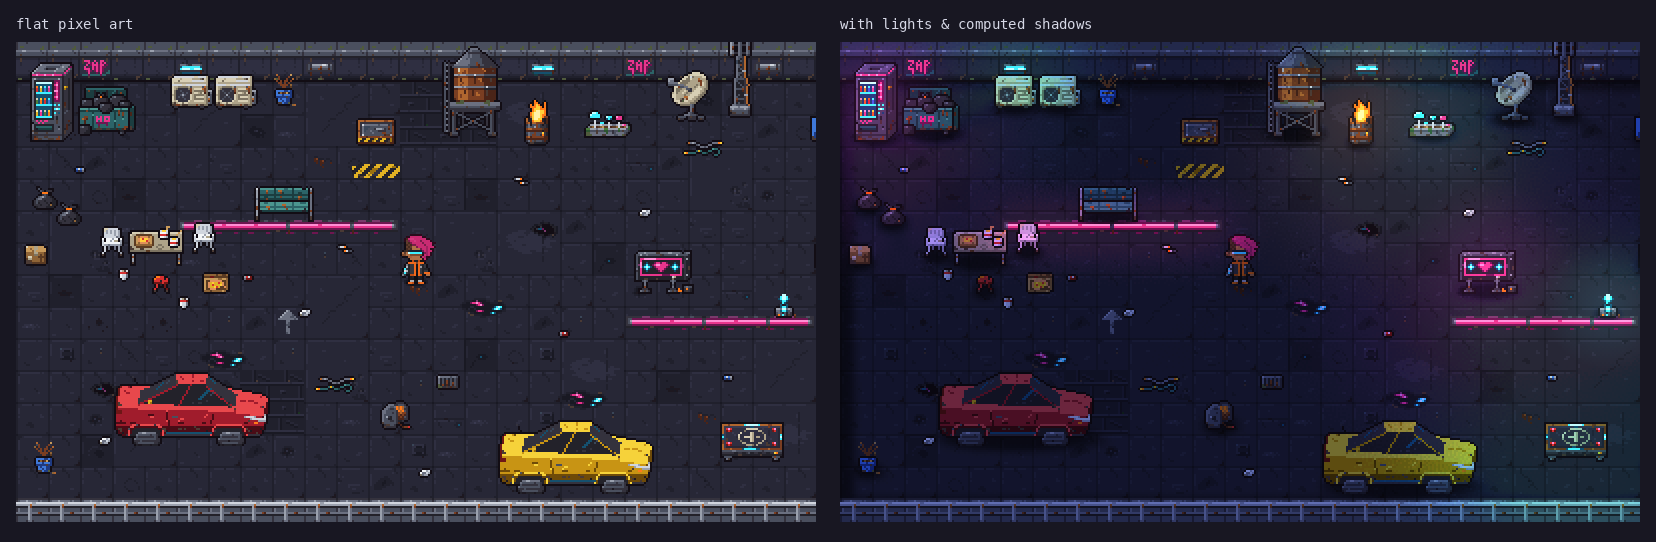
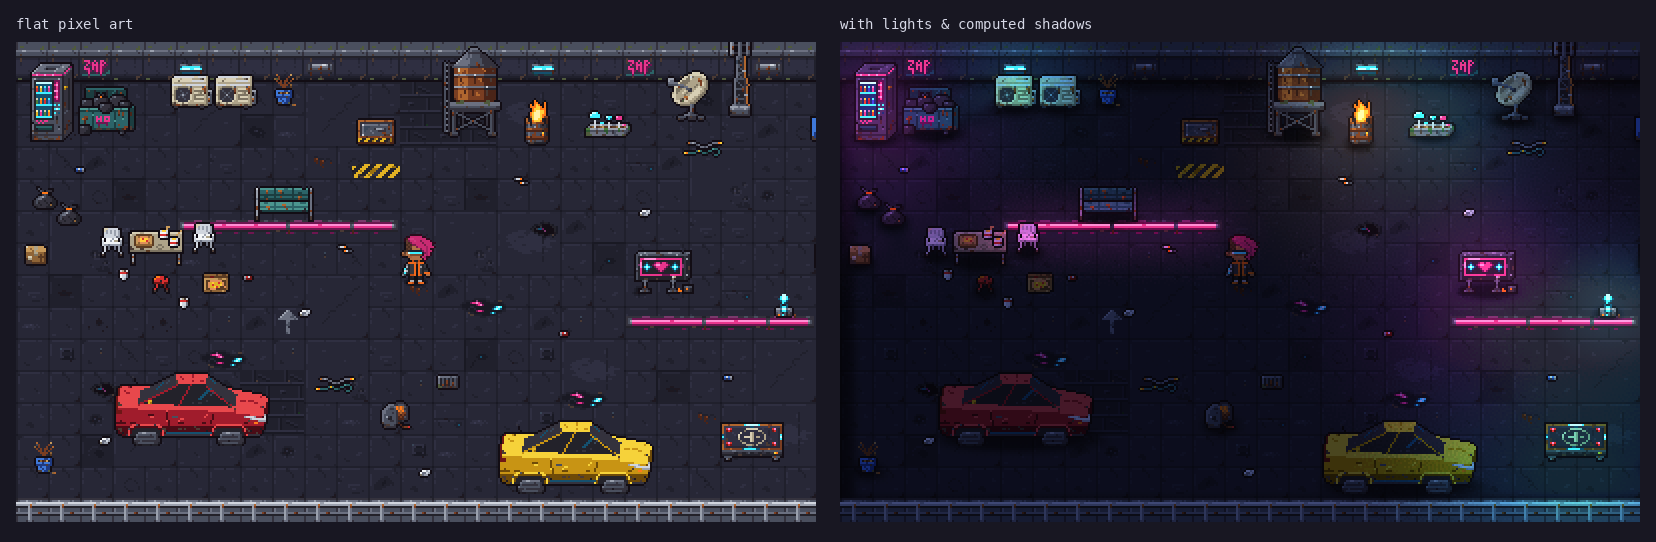
feat(demo): start at 40% night darkness
The demo now starts at 40% darkness (LIGHTING.darkness), and the
README media, including the header loop, are captured at that level.
The -/+ keys still go from 0% to 100%.

Claude-Session: https://claude.ai/code/session_01Fv8yoVpx8AM9QtDidGMBtM

diff --git a/web/engine.js b/web/engine.js
@@ -503,7 +503,7 @@ function draw(fixedT) {
   }
 }
 
-// Scene darkness (keys - and +, 0-100%): dims the ambient light, the moon and the light
+// Scene darkness (keys - and +, 0-100%, default LIGHTING.darkness): dims the ambient light, the moon and the light
 // on flying cars; neon, fire, lamps and headlights keep their strength, so at 100% the roof
 // is dark except for pools of light. The moon is baked, so a change re-bakes (~0.1 s).
 const LIGHT_BASE = { ambient: LIGHTING.ambient, moon: LIGHTING.moon.color, car: LIGHTING.carLight };
@@ -511,16 +511,18 @@ const DARKEST = 0.12;  // share of ambient/moon light left at 100% darkness
 let darkness = 0, rebake = 0;
 const dimHex = (hex, k) => "#" + [1, 3, 5].map(i => Math.round(parseInt(hex.slice(i, i + 2), 16) * k)
   .toString(16).padStart(2, "0")).join("");
-function setDarkness(v) {
+function setDarkness(v, rebakeLights = true) {
   darkness = Math.round(Math.max(0, Math.min(1, v)) * 10) / 10;
   const k = 1 - (1 - DARKEST) * darkness;
   LIGHTING.ambient = dimHex(LIGHT_BASE.ambient, k);
   LIGHTING.moon.color = dimHex(LIGHT_BASE.moon, k);
   LIGHTING.carLight = dimHex(LIGHT_BASE.car, Math.max(0.3, k));
   carSprites.clear();
+  if (!rebakeLights) return;
   clearTimeout(rebake);
   rebake = setTimeout(buildLighting, 60);
 }
+setDarkness(LIGHTING.darkness ?? 0, false);  // startup default; the first bake uses it
 
 let last = performance.now(), paused = false;
 function loop(now) {

diff --git a/web/rooftop.js b/web/rooftop.js
@@ -78,6 +78,7 @@ export const LIGHTING = {
   shadow: 0.88,     // fraction of a light removed inside its shadow
   levels: 20,       // flat-shaded bands for light falloff and shadow edges
   dither: 1,        // blue-noise dithering of the band edges (0 = hard bands, 1 = full)
+  darkness: 0.4,    // the night's darkness at startup (0-1, the -/+ keys change it in 10% steps)
   maxShadow: 60,    // px, caps shadows from low lights
   carLight: "#8a92b8",  // light on things above the roof (the flying car): moon + ambient
   fadeTo: 0.15,     // shadow strength left at the far tip (1 = no fade)

diff --git a/docs/lighting.md b/docs/lighting.md
@@ -71,7 +71,7 @@ for the lighting toggle. Per-frame draws reuse these canvases at the current pos
 headlight shadows still respond to the scene every frame.
 
 ## Scene darkness
-The `-`/`+` keys set the night's darkness in 10% steps (0% is the default look). They dim the
+The `-`/`+` keys set the night's darkness in 10% steps (`darkness`, 40% at startup). They dim the
 ambient light, the moon and the light on flying cars toward 12% of their strength; neon, fire,
 lamps and car headlights keep full strength, so a fully dark roof is lit only by its own lights.
 The moon is baked into the light maps, so each step re-bakes them (about 0.1 s).
